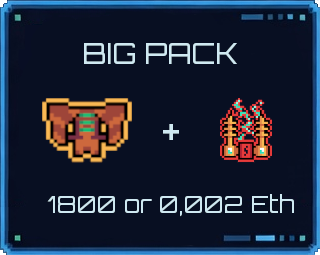
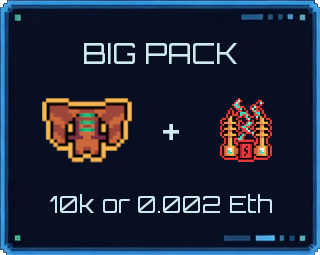
Drone pack

Changed region(s): [[0.1562, 0.7686, 0.9375, 0.851]]

diff --git a/src/game/scenes/GameScene.ts b/src/game/scenes/GameScene.ts
@@ -186,6 +186,7 @@ const SHOP_ETH_PRICES = {
   packBig: "0.002",
   packMaxi: "0.006",
   packXp: (process.env.NEXT_PUBLIC_PACK_XP_PRICE_ETH?.trim() || "0.05"),
+  packDrone: "0.006",
 } as const;
 
 const SHOP_PACK_IDS = {
@@ -194,6 +195,7 @@ const SHOP_PACK_IDS = {
   packBig: 2,
   packMaxi: 3,
   packXp: 4,
+  packDrone: 5,
 } as const;
 
 export class GameScene extends Phaser.Scene {
@@ -343,6 +345,7 @@ export class GameScene extends Phaser.Scene {
   private packMedium = false;
   private packBig = false;
   private packMaxi = false;
+  private packDrone = false;
   private syncOnchainPacksInFlight = false;
 
   private applyPackFlags(save: SaveData, grantBonusHpForXpPack: boolean) {
@@ -354,6 +357,7 @@ export class GameScene extends Phaser.Scene {
     this.packMedium = save.packMedium;
     this.packBig = save.packBig;
     this.packMaxi = save.packMaxi;
+    this.packDrone = save.packDrone;
 
     this.maxHp = BASE_HP + (this.packXp ? XP_PACK_HP_BONUS : 0);
 
@@ -403,6 +407,10 @@ export class GameScene extends Phaser.Scene {
       }
       if (onchain.packXp && !save.packXp) {
         save.packXp = true;
+        changed = true;
+      }
+      if (onchain.packDrone && !save.packDrone) {
+        save.packDrone = true;
         changed = true;
       }
 
@@ -2119,7 +2127,7 @@ export class GameScene extends Phaser.Scene {
     const d = this.levelConfig?.drops ?? DEFAULT_DROPS;
     // Weapon/engine drops are gated by purchased shop packs.
     // Each pack unlocks a pair of drops at a fixed base rate.
-    const WPN = 0.03; // weapon drop rate per pack
+    const WPN = 0.02; // weapon drop rate per pack
     const ENG = 0.02; // engine drop rate per pack
     const level = this.currentLevel;
 
@@ -2158,9 +2166,9 @@ export class GameScene extends Phaser.Scene {
     threshold += d.firingRate2;
     if (r < threshold) return this.spawnFiringRate2Pickup(x, y);
 
-    // Drone (satellite) pickup — 5% base drop chance, available starting at level 3.
-    if (level >= 3) {
-      threshold += 0.01;
+    // Drone (satellite) pickup — unlocked by Drone pack, available starting at level 2.
+    if (this.packDrone && level >= 2) {
+      threshold += 0.01; // 1% base drop chance
       if (r < threshold) return this.spawnDronePickup(x, y);
     }
 
@@ -2208,6 +2216,7 @@ export class GameScene extends Phaser.Scene {
       packMedium: this.packMedium,
       packBig: this.packBig,
       packMaxi: this.packMaxi,
+      packDrone: this.packDrone,
     };
     SaveManager.save(save);
 
@@ -2302,6 +2311,7 @@ export class GameScene extends Phaser.Scene {
       packMedium: this.packMedium,
       packBig: this.packBig,
       packMaxi: this.packMaxi,
+      packDrone: this.packDrone,
     };
     SaveManager.save(deathSave);
 
@@ -4045,6 +4055,7 @@ export class GameScene extends Phaser.Scene {
         cleared.packMedium = prev.packMedium;
         cleared.packBig = prev.packBig;
         cleared.packMaxi = prev.packMaxi;
+        cleared.packDrone = prev.packDrone;
         SaveManager.save(cleared);
         this.scene.start("GameScene", { level: 1, showMenu: true });
       });
@@ -4236,7 +4247,7 @@ export class GameScene extends Phaser.Scene {
     const scoreBottom = this.scoreText.y + 16; // scoreText origin(1,0), fontSize 16
     const shopTopPad = scoreBottom + 16;
 
-    type PackFlag = "packBase" | "packMedium" | "packBig" | "packMaxi" | "packXp";
+    type PackFlag = "packBase" | "packMedium" | "packBig" | "packMaxi" | "packXp" | "packDrone";
     interface PackInfo {
       key: string;
       costPoints: number | null;
@@ -4248,9 +4259,10 @@ export class GameScene extends Phaser.Scene {
     }
     const PACKS: PackInfo[] = [
       { key: IMAGE_KEYS.uiPackBase, costPoints: 200, reqLevel: 2, saveFlag: "packBase", displayName: "Base pack", ethPrice: SHOP_ETH_PRICES.packBase, ethPackId: SHOP_PACK_IDS.packBase },
-      { key: IMAGE_KEYS.uiPackMedium, costPoints: 600, reqLevel: 5, saveFlag: "packMedium", displayName: "Medium pack", ethPrice: SHOP_ETH_PRICES.packMedium, ethPackId: SHOP_PACK_IDS.packMedium },
-      { key: IMAGE_KEYS.uiPackBig, costPoints: 1800, reqLevel: 9, saveFlag: "packBig", displayName: "Big pack", ethPrice: SHOP_ETH_PRICES.packBig, ethPackId: SHOP_PACK_IDS.packBig },
-      { key: IMAGE_KEYS.uiPackMaxi, costPoints: 5400, reqLevel: 12, saveFlag: "packMaxi", displayName: "Maxi pack", ethPrice: SHOP_ETH_PRICES.packMaxi, ethPackId: SHOP_PACK_IDS.packMaxi },
+      { key: IMAGE_KEYS.uiPackMedium, costPoints: 2000, reqLevel: 5, saveFlag: "packMedium", displayName: "Medium pack", ethPrice: SHOP_ETH_PRICES.packMedium, ethPackId: SHOP_PACK_IDS.packMedium },
+      { key: IMAGE_KEYS.uiPackBig, costPoints: 10000, reqLevel: 9, saveFlag: "packBig", displayName: "Big pack", ethPrice: SHOP_ETH_PRICES.packBig, ethPackId: SHOP_PACK_IDS.packBig },
+      { key: IMAGE_KEYS.uiPackMaxi, costPoints: 50000, reqLevel: 12, saveFlag: "packMaxi", displayName: "Maxi pack", ethPrice: SHOP_ETH_PRICES.packMaxi, ethPackId: SHOP_PACK_IDS.packMaxi },
+      { key: IMAGE_KEYS.uiPackDrone, costPoints: 50000, reqLevel: 2, saveFlag: "packDrone", displayName: "Drone pack", ethPrice: SHOP_ETH_PRICES.packDrone, ethPackId: SHOP_PACK_IDS.packDrone },
       { key: IMAGE_KEYS.uiPackXp, costPoints: null, reqLevel: 1, saveFlag: "packXp", displayName: "XP pack", ethPrice: SHOP_ETH_PRICES.packXp, ethPackId: SHOP_PACK_IDS.packXp },
     ];
     const onchainEnabled = isPackShopOnchainEnabled();
@@ -4276,16 +4288,17 @@ export class GameScene extends Phaser.Scene {
     const rowGap = halfH * 2 + 18;     // button height + 18px
     const rowY = [firstRowY, firstRowY + rowGap, firstRowY + rowGap * 2];
 
-    // Grid: [basep, mediump], [bigp, maxip], [xpp centred]
+    // Grid: [basep, mediump], [bigp, maxip], [dronepack, xpp]
     const grid = [
       { pi: 0, x: lx, y: rowY[0] },
       { pi: 1, x: rx, y: rowY[0] },
       { pi: 2, x: lx, y: rowY[1] },
       { pi: 3, x: rx, y: rowY[1] },
-      { pi: 4, x: centerX, y: rowY[2] },
+      { pi: 4, x: lx, y: rowY[2] },
+      { pi: 5, x: rx, y: rowY[2] },
     ];
 
-    type Entry = { img: Phaser.GameObjects.Image; lbl: Phaser.GameObjects.Text; pack: PackInfo; isXp: boolean };
+    type Entry = { img: Phaser.GameObjects.Image; lbl: Phaser.GameObjects.Text; pack: PackInfo };
     const entries: Entry[] = [];
     let shopUiDisposed = false;
     container.once("destroy", () => {
@@ -4305,7 +4318,7 @@ export class GameScene extends Phaser.Scene {
       }
       if (!isShopUiActive()) return;
       const sv = SaveManager.load();
-      for (const { img, lbl, pack, isXp } of entries) {
+      for (const { img, lbl, pack } of entries) {
         if (!img.scene || !img.active) continue;
         const owned = sv[pack.saveFlag];
         const reqMet = this.currentLevel >= pack.reqLevel;
@@ -4317,13 +4330,13 @@ export class GameScene extends Phaser.Scene {
         img.off("pointerdown").off("pointerover").off("pointerout");
 
         if (owned) {
-          if (!isXp) lbl.setText("OWNED").setColor("#44ff44").setVisible(true);
+          lbl.setText("OWNED").setColor("#44ff44").setVisible(true);
           img.setTint(0x44ff44);
         } else if (!reqMet) {
-          if (!isXp) lbl.setText(`LVL ${pack.reqLevel}`).setColor("#888888").setVisible(true);
+          lbl.setText(`LVL ${pack.reqLevel}`).setColor("#888888").setVisible(true);
           img.setTint(0x444444).setAlpha(0.4);
         } else {
-          if (!isXp) lbl.setText("Available").setColor("#FFD700").setVisible(true);
+          lbl.setText("Available").setColor("#FFD700").setVisible(true);
 
           if (!canBuyWithPoints && !canBuyWithEth) {
             img.setTint(0x555555).setAlpha(0.5);
@@ -4331,15 +4344,21 @@ export class GameScene extends Phaser.Scene {
           }
 
           if (pendingOnchainPurchase) {
+            lbl.setText("PENDING...").setColor("#66ccff").setVisible(true);
             img.setTint(0x777777).setAlpha(0.6);
             continue;
           }
 
-          const hitPadding = 10;
           img.clearTint().setInteractive({ useHandCursor: true });
           const area = img.input?.hitArea as Phaser.Geom.Rectangle | undefined;
           if (area) {
-            area.setTo(-hitPadding, -hitPadding, img.width + hitPadding * 2, img.height + hitPadding * 2);
+            const hitPadding = 10;
+            area.setTo(
+              -img.width * img.originX - hitPadding,
+              -img.height * img.originY - hitPadding,
+              img.width + hitPadding * 2,
+              img.height + hitPadding * 2,
+            );
           }
           if (img.input) img.input.cursor = "pointer";
           img.on("pointerover", () => img.setTint(0xcccccc));
@@ -4384,7 +4403,7 @@ export class GameScene extends Phaser.Scene {
             pendingOnchainPurchase = true;
             pendingOnchainStartedAt = performance.now();
             if (isShopUiActive()) {
-              if (!isXp) lbl.setText("PENDING...").setColor("#66ccff").setVisible(true);
+              lbl.setText("PENDING...").setColor("#66ccff").setVisible(true);
               img.setTint(0x8888ff);
             }
 
@@ -4402,7 +4421,9 @@ export class GameScene extends Phaser.Scene {
               this.applyPackFlags(sv3, true);
             } catch (error) {
               console.warn("ETH pack purchase failed:", error);
-              if (!isXp && isShopUiActive()) lbl.setText("TX FAILED").setColor("#ff6666").setVisible(true);
+              if (isShopUiActive()) {
+                lbl.setText("TX FAILED").setColor("#ff6666").setVisible(true);
+              }
             } finally {
               clearPendingOnchainPurchase();
               this.draggingPointerId = null;
@@ -4417,7 +4438,6 @@ export class GameScene extends Phaser.Scene {
 
     for (const { pi, x, y } of grid) {
       const pack = PACKS[pi];
-      const isXp = pi === 4; // xpp is the last item, no label
       const img = this.add.image(x, y, pack.key).setScale(UI_SCALE);
       const lbl = this.add.text(x, y + halfH + gap / 2, "", {
         fontFamily: "Orbitron",
@@ -4426,17 +4446,19 @@ export class GameScene extends Phaser.Scene {
         stroke: "#000000",
         strokeThickness: 2,
         align: "center",
-      }).setOrigin(0.5).setVisible(!isXp);
+      }).setOrigin(0.5).setVisible(true);
       container.add([img, lbl]);
-      entries.push({ img, lbl, pack, isXp });
+      entries.push({ img, lbl, pack });
     }
 
     refreshAll();
     void this.syncOnchainPackOwnership(refreshAll);
 
-    // Return the bottom Y of the xpp image (no label underneath).
-    const lastImg = entries[entries.length - 1].img;
-    return lastImg.y + halfH;
+    // Return the bottom Y of the last label (so buttons below don't overlap).
+    const last = entries[entries.length - 1];
+    const lastImgBottom = last.img.y + halfH;
+    const lastLblBottom = last.lbl.y + last.lbl.height / 2;
+    return Math.max(lastImgBottom, lastLblBottom);
   }
 
   private destroyPauseUI() {

diff --git a/src/game/entities/Enemy.ts b/src/game/entities/Enemy.ts
@@ -54,8 +54,8 @@ const BOMBER_SLOW_SPEED = 30;           // crawl speed while locking target
 const BOMBER_SLOW_DURATION_MS = 600;    // time spent crawling
 const BOMBER_CHARGE_SPEED = 550;        // px/s dive speed
 
-const FRIGATE_HP = 3;
-const FRIGATE_SHIELD_HP = 3;
+const FRIGATE_HP = 7;
+const FRIGATE_SHIELD_HP = 7;
 const FRIGATE_BULLET_DAMAGE = 2;
 const FRIGATE_BULLET_DEPTH = ENEMY_DEPTH.frigate.body;
 const FRIGATE_SALVO_BASE_Y_FACTOR = 0.15;
@@ -64,8 +64,8 @@ const FRIGATE_BIG_BULLET_SCALE = 0.6;
 const FRIGATE_HITBOX_W_MULT = 0.7;
 const FRIGATE_HITBOX_H_MULT = 0.1;
 
-const BATTLECRUISER_HP = 30;
-const BATTLECRUISER_SHIELD_HP = 30;
+const BATTLECRUISER_HP = 40;
+const BATTLECRUISER_SHIELD_HP = 40;
 const BATTLECRUISER_WAVE_DAMAGE = 3;
 const BATTLECRUISER_WAVE_DEPTH = ENEMY_DEPTH.battlecruiser.body;
 const BATTLECRUISER_FIRE_Y_FACTOR = 0.28;
@@ -302,7 +302,7 @@ export class Enemy extends Phaser.Physics.Arcade.Sprite {
           ? ELITE_TINT_BERSERK
           : this._eliteRole === "support"
             ? ELITE_TINT_SUPPORT
-          : ELITE_TINT_DEFAULT;
+            : ELITE_TINT_DEFAULT;
     this.setTint(tint);
   }
 
@@ -451,7 +451,7 @@ export class Enemy extends Phaser.Physics.Arcade.Sprite {
                 : isFighter
                   ? SPRITE_FRAMES.fighterBase
                   : SPRITE_FRAMES.enemyBase,
-        );
+      );
     }
 
     // Reset pooled tinting (and apply elite tint if needed).
@@ -1775,7 +1775,7 @@ export class Enemy extends Phaser.Physics.Arcade.Sprite {
             ? 1.15
             : this._eliteRole === "support"
               ? 1.25
-            : 1;
+              : 1;
 
       if (mult !== 1) {
         const speedY = Math.min(720, Math.round(baseSpeedY * mult));

diff --git a/src/game/onchain/packShop.ts b/src/game/onchain/packShop.ts
@@ -11,6 +11,7 @@ export interface OnchainPackOwnership {
   packBig: boolean;
   packMaxi: boolean;
   packXp: boolean;
+  packDrone: boolean;
 }
 
 function getPackShopContractAddress(): `0x${string}` | null {
@@ -104,6 +105,12 @@ export async function getOnchainPackOwnership(): Promise<OnchainPackOwnership | 
       functionName: "hasPack",
       args: [account, 4],
     }),
+    publicClient.readContract({
+      address: contractAddress,
+      abi,
+      functionName: "hasPack",
+      args: [account, 5],
+    }),
   ]);
 
   return {
@@ -112,6 +119,7 @@ export async function getOnchainPackOwnership(): Promise<OnchainPackOwnership | 
     packBig: owned[2],
     packMaxi: owned[3],
     packXp: owned[4],
+    packDrone: owned[5],
   };
 }
 

diff --git a/src/game/scenes/PreloadScene.ts b/src/game/scenes/PreloadScene.ts
@@ -61,6 +61,7 @@ export class PreloadScene extends Phaser.Scene {
     this.load.image(IMAGE_KEYS.uiXp, "/assets/atlases/xpico.png");
     // Shop pack buttons
     this.load.image(IMAGE_KEYS.uiPackXp,    "/assets/atlases/UI/xpp.png");
+    this.load.image(IMAGE_KEYS.uiPackDrone, "/assets/atlases/UI/dronepack.png");
     this.load.image(IMAGE_KEYS.uiPackBase,  "/assets/atlases/UI/basep.png");
     this.load.image(IMAGE_KEYS.uiPackMedium,"/assets/atlases/UI/mediump.png");
     this.load.image(IMAGE_KEYS.uiPackBig,   "/assets/atlases/UI/bigp.png");

diff --git a/src/game/systems/SaveManager.ts b/src/game/systems/SaveManager.ts
@@ -49,6 +49,8 @@ export interface SaveData {
   packBig: boolean;
   /** Maxi Pack: unlocks Big Space Gun + Big Pulse Engine drops (points or ETH). Req level 12. */
   packMaxi: boolean;
+  /** Drone Pack: unlocks Drone (satellite) pickup drops (points or ETH). Req level 2. */
+  packDrone: boolean;
 }
 
 const DEFAULT_SAVE: SaveData = {
@@ -75,6 +77,7 @@ const DEFAULT_SAVE: SaveData = {
   packMedium: false,
   packBig: false,
   packMaxi: false,
+  packDrone: false,
 };
 
 export class SaveManager {

diff --git a/src/game/config.ts b/src/game/config.ts
@@ -25,6 +25,7 @@ export const IMAGE_KEYS = {
   uiXp: "ui_xp",
   // Shop pack buttons
   uiPackXp: "ui_pack_xp",
+  uiPackDrone: "ui_pack_drone",
   uiPackBase: "ui_pack_base",
   uiPackMedium: "ui_pack_medium",
   uiPackBig: "ui_pack_big",
